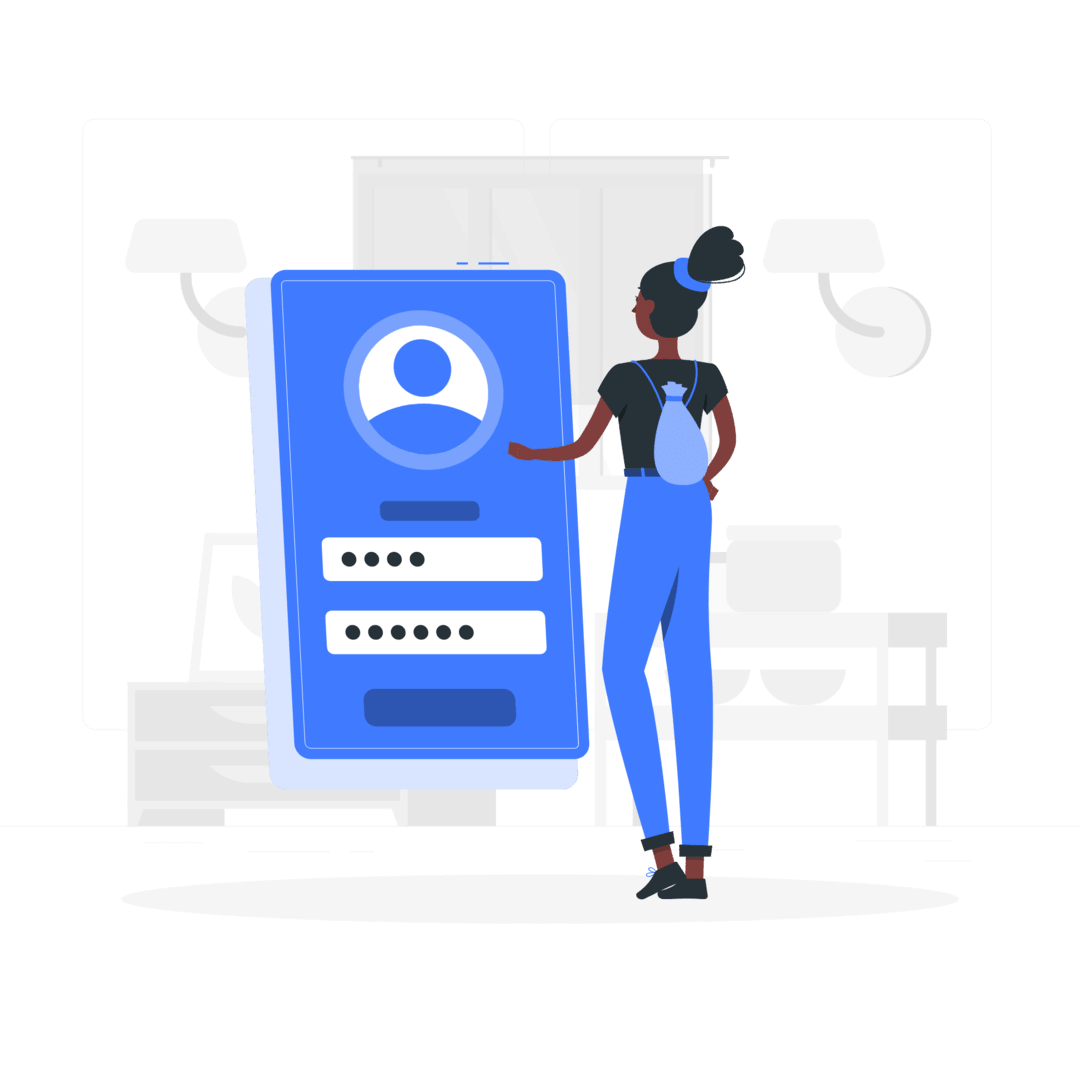
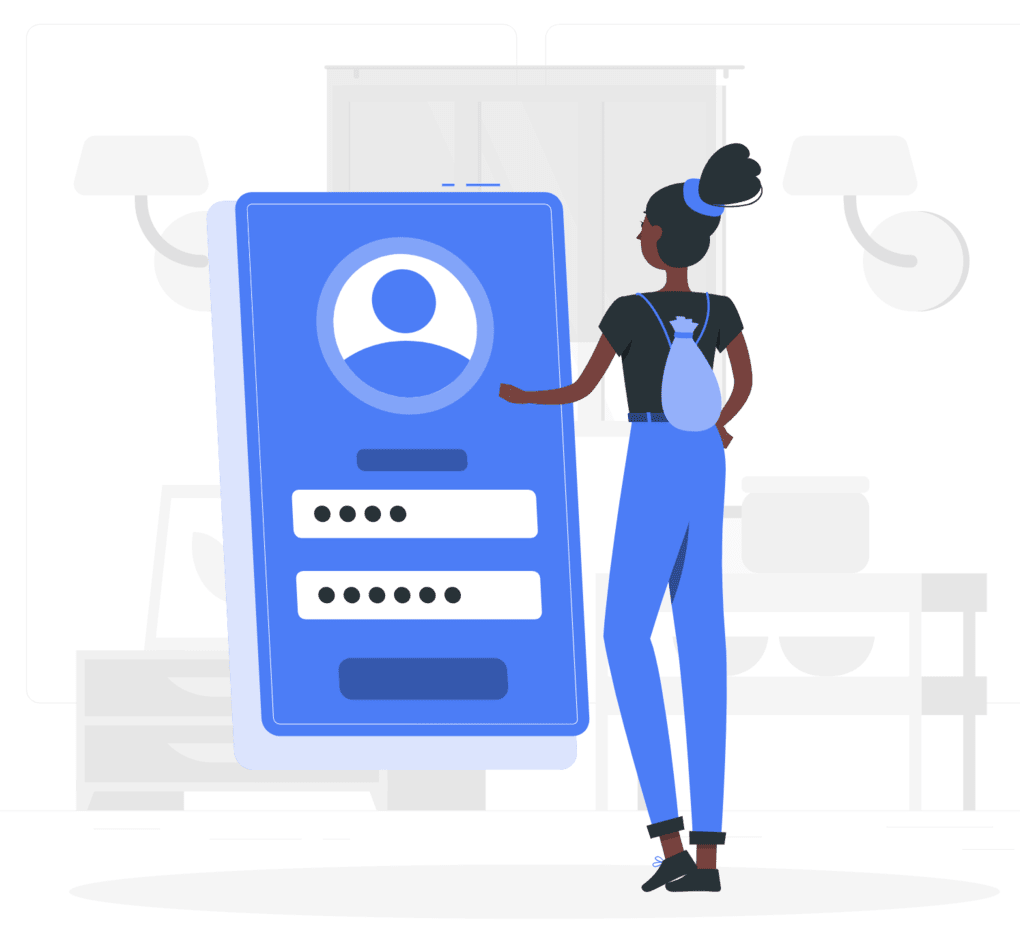
fix: Add smaller images to login & register forms

diff --git a/public/css/styles.css b/public/css/styles.css
@@ -136,12 +136,14 @@ footer {
 
 .auth-img {
   position: relative;
-  top: -7rem;
-  right: 5rem;
+  /* top: -2em;
+  right: 2rem; */
   /* border: 5px solid red; */
-  min-width: 60rem;
+  min-width: 50rem;
   /* box-shadow: inset -8em 0 1em 1em white; */
   /* background: linear-gradient(blue, white); */
+
+  z-index: -1;
 }
 
 .auth-form {
